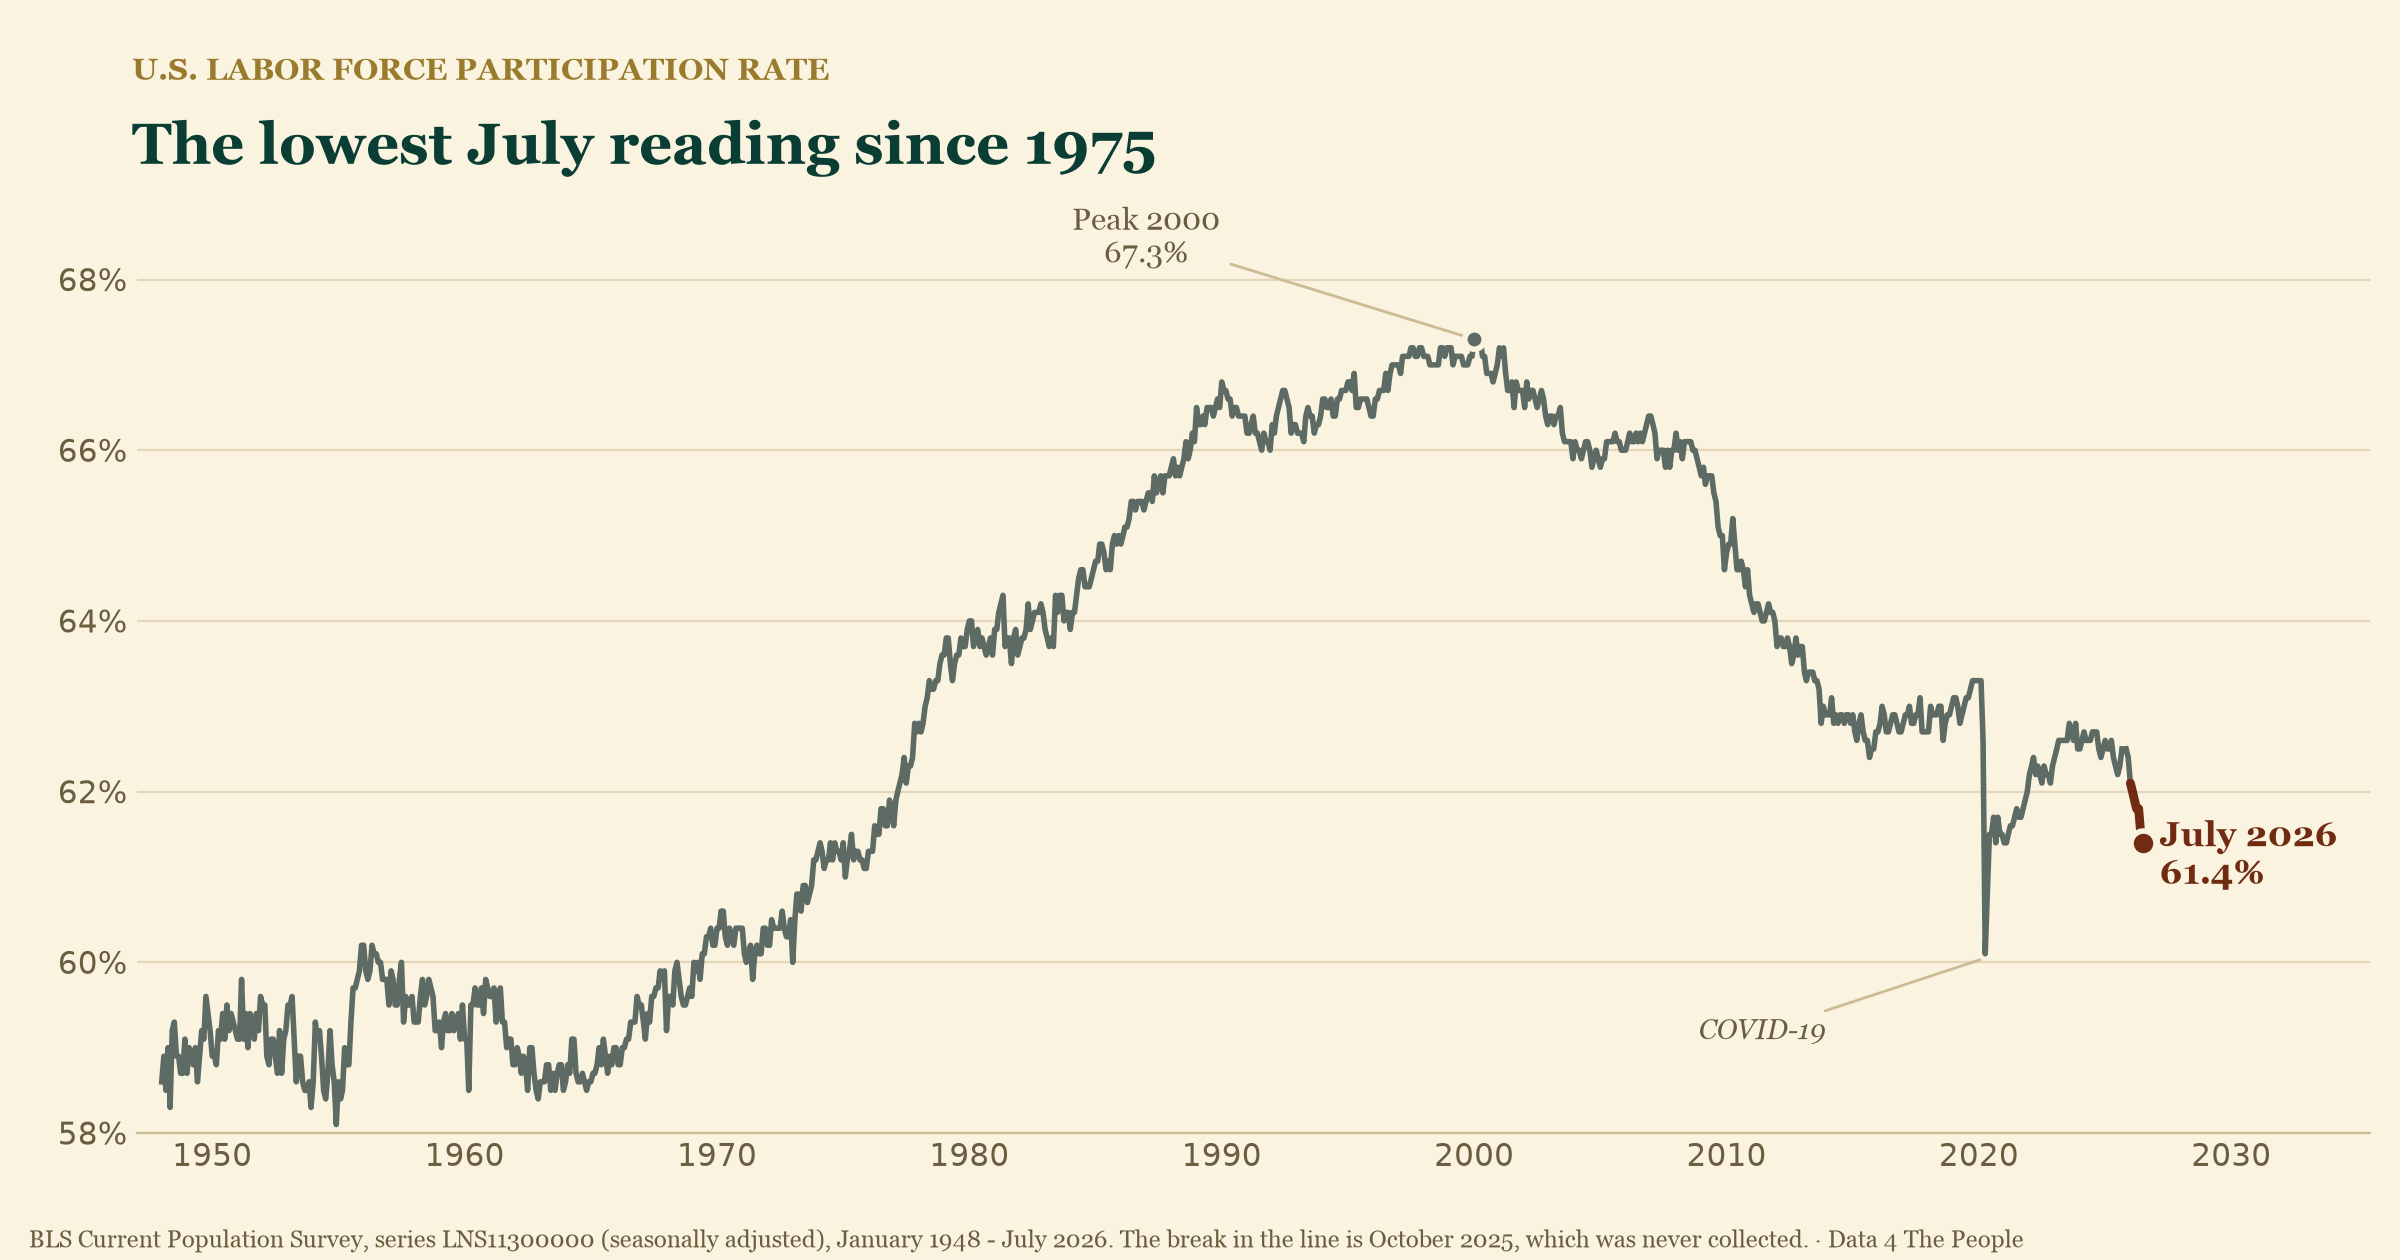
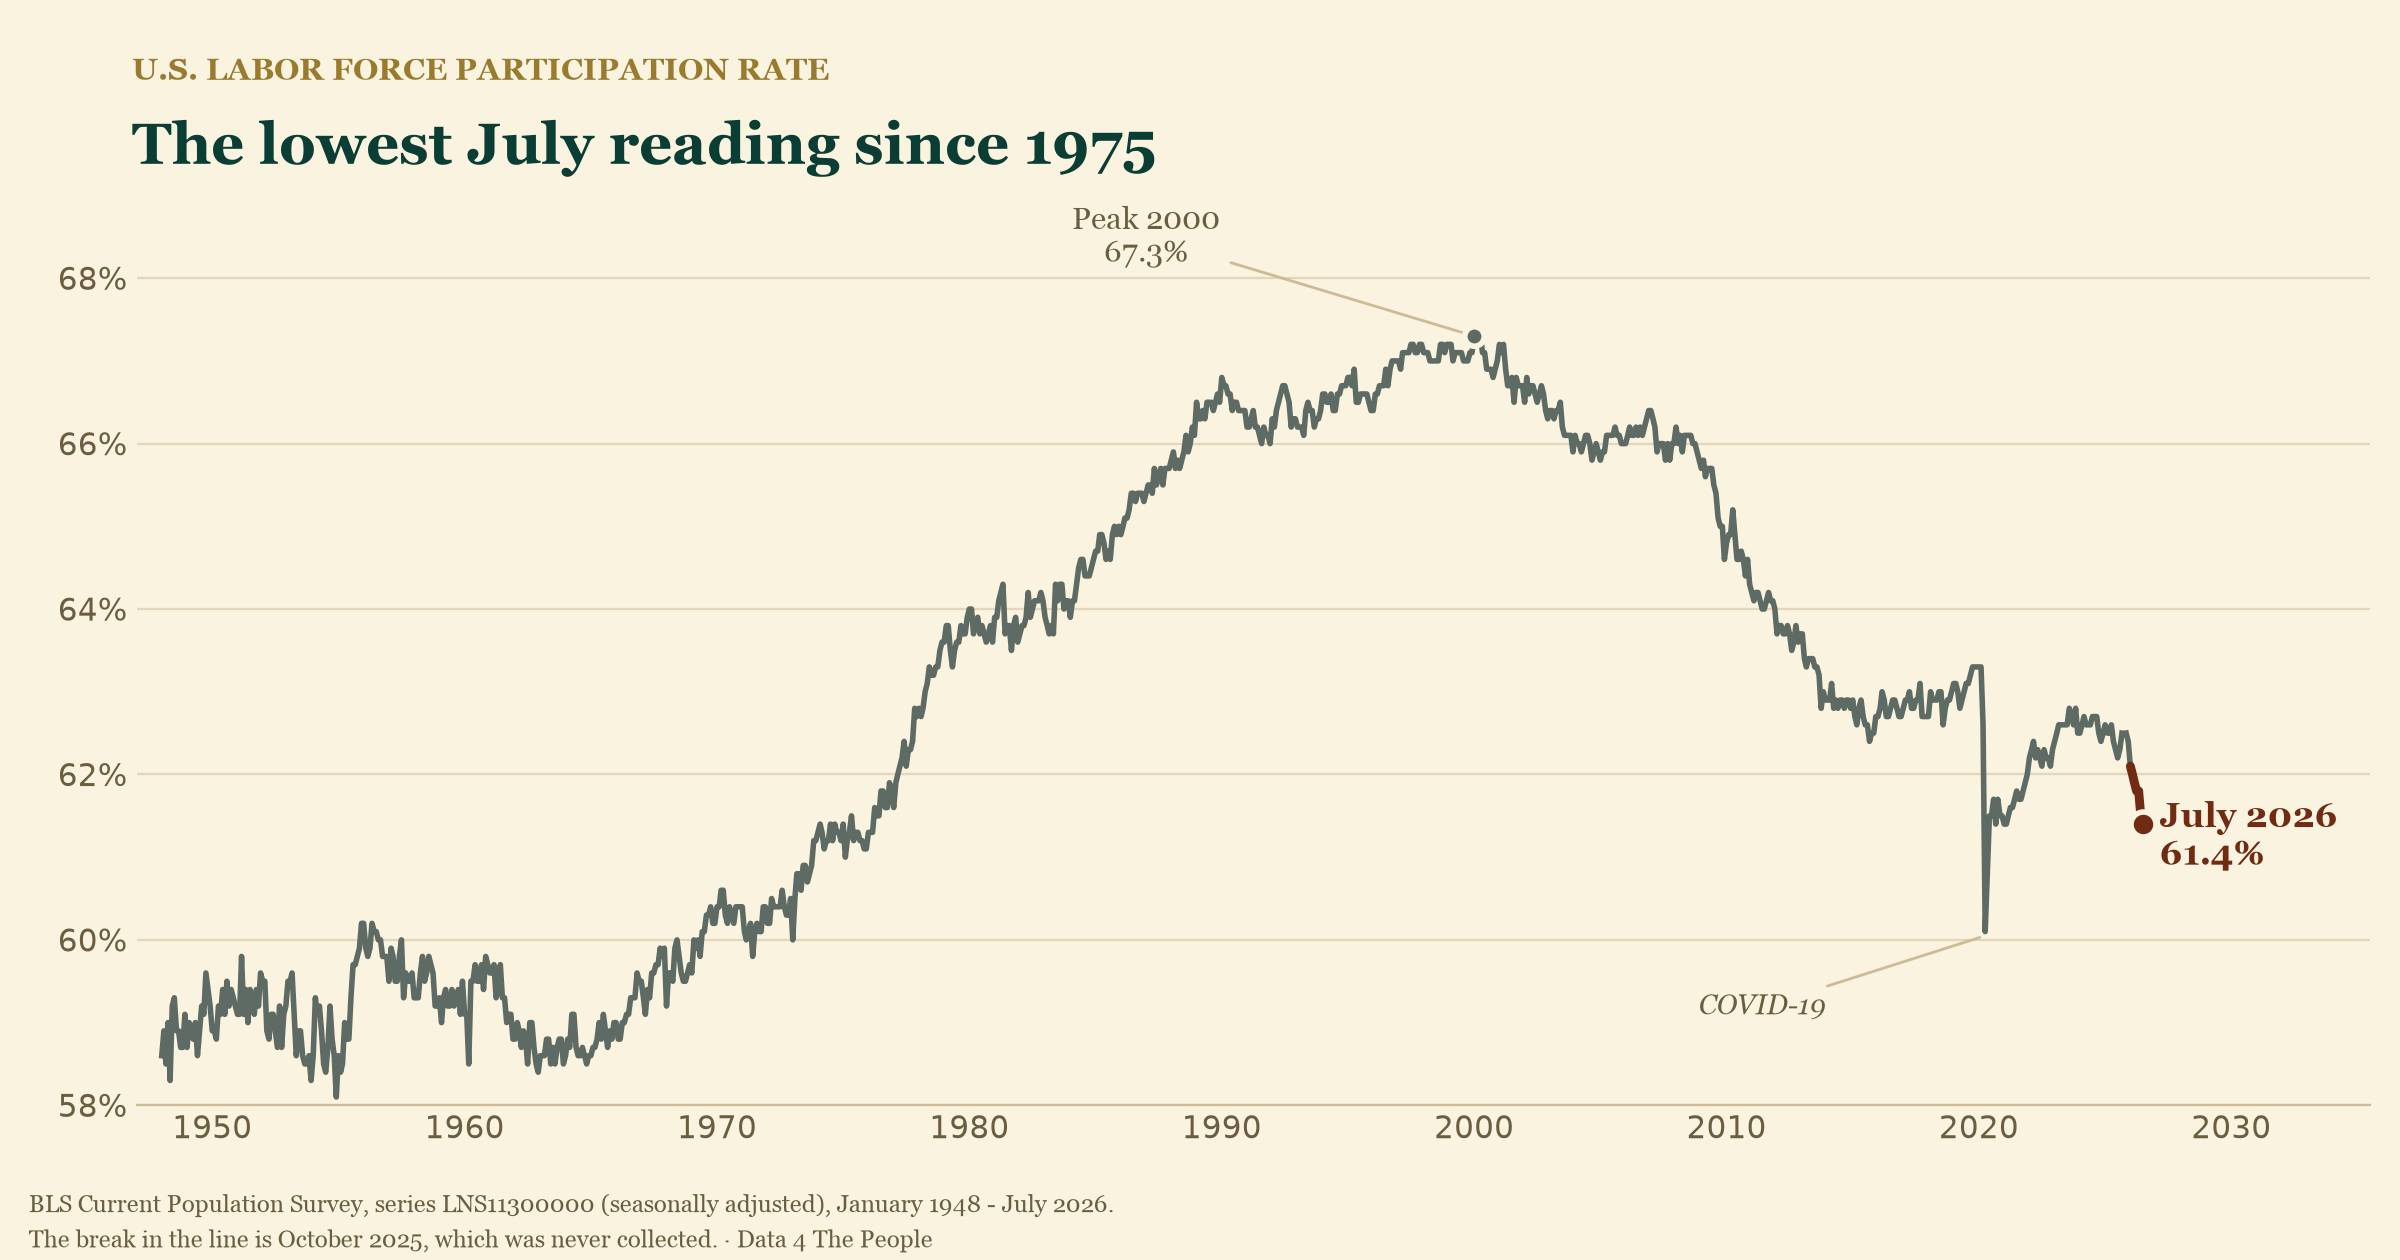
Match schema and hero to the Data 4 Thought house format
Rewrites the JSON-LD to the standard post format: Article rather than
NewsArticle, Person author, keywords as an array, articleSection, and citation
as CreativeWork entries pointing at the specific series and release rather than
a single Dataset. Key order follows the house template.

Adds a 1680x1080 hero matching the house dimensions and filename convention;
the 2400x1260 version is kept for in-post and other use. chart_hero and source
now take a type-scale factor, because matplotlib sizes fonts in absolute points
and the footnote that fits at 12in overflows the narrower canvas.

diff --git a/analysis/make_charts.py b/analysis/make_charts.py
@@ -59,12 +59,13 @@ def style(ax, title, subtitle, xlabel):
             fontsize=10.5, style="italic", family=SERIF, va="bottom")
 
 
-def source(fig, lines):
+def source(fig, lines, fs=1.0):
     """Footnote block. Takes a list of short lines -- a single long string
-    silently runs off the canvas rather than wrapping."""
+    silently runs off the canvas rather than wrapping. `fs` scales type for
+    narrower canvases, where a line that fits at 12in will overflow."""
     for i, line in enumerate(reversed(lines)):
-        fig.text(0.012, 0.010 + i * 0.028, line, color=MUTED,
-                 fontsize=8.5, family=SERIF)
+        fig.text(0.012, 0.010 + i * (0.028 / fs), line, color=MUTED,
+                 fontsize=8.5 * fs, family=SERIF)
 
 
 def series(sid):
@@ -150,12 +151,16 @@ def render_table(path, title, subtitle, colgroups, headers, rows, aligns,
 
 
 # --------------------------------------------------------------------------
-def chart_hero():
+def chart_hero(path=None, figsize=(12, 6.3), fs=1.0):
     """Hero: the whole 1948-2026 sweep of the headline participation rate.
 
     Reindexed to a complete monthly range so the uncollected Oct-2025 month
     becomes NaN and matplotlib breaks the line there instead of drawing a
     straight segment across a month that was never measured.
+
+    `fs` scales type so the same design holds at more than one canvas size --
+    matplotlib sizes fonts in absolute points, so a smaller figure with
+    unchanged sizes comes out looking crowded.
     """
     s = series(LFPR_16)
     full = pd.date_range(s.index.min(), s.index.max(), freq="MS")
@@ -166,7 +171,7 @@ def chart_hero():
     last_at = s.dropna().index[-1]; last = s.dropna().iloc[-1]
     jan26 = s[JAN]
 
-    fig, ax = plt.subplots(figsize=(12, 6.3))
+    fig, ax = plt.subplots(figsize=figsize)
     ax.set_facecolor(PARCH); fig.patch.set_facecolor(PARCH)
 
     ax.plot(s.index, s.values, color=BASE, lw=2.0, zorder=3)
@@ -181,12 +186,12 @@ def chart_hero():
 
     ax.annotate(f"Peak {peak_at.year}\n{peak:.1f}%",
                 xy=(peak_at, peak), xytext=(peak_at - pd.DateOffset(years=13), peak + 0.9),
-                fontsize=11, family=SERIF, color=MUTED, ha="center",
+                fontsize=11*fs, family=SERIF, color=MUTED, ha="center",
                 arrowprops=dict(arrowstyle="-", color=GRID, lw=1))
     # Label sits beside its own dot -- a long leader from the left would cross
     # the 2020 plunge and read as though it pointed there.
     ax.text(last_at + pd.DateOffset(months=8), last - 0.15,
-            f"July 2026\n{last:.1f}%", fontsize=12.5, family=SERIF,
+            f"July 2026\n{last:.1f}%", fontsize=12.5*fs, family=SERIF,
             color=HILITE, fontweight="bold", ha="left", va="center")
     # No January-2026 callout: any leader long enough to reach clear space
     # rakes across the 2010s and reads as pointing at the wrong thing. The
@@ -194,7 +199,7 @@ def chart_hero():
     # post. jan26 is kept for the stdout summary below.
     ax.annotate("COVID-19", xy=(pd.Timestamp(2020, 4, 1), 60.05),
                 xytext=(pd.Timestamp(2011, 6, 1), 59.1),
-                fontsize=10, family=SERIF, color=MUTED, style="italic",
+                fontsize=10*fs, family=SERIF, color=MUTED, style="italic",
                 ha="center",
                 arrowprops=dict(arrowstyle="-", color=GRID, lw=1))
 
@@ -205,21 +210,22 @@ def chart_hero():
     for sp in ("top", "right", "left"):
         ax.spines[sp].set_visible(False)
     ax.spines["bottom"].set_color(GRID)
-    ax.tick_params(colors=MUTED, labelsize=11, length=0)
+    ax.tick_params(colors=MUTED, labelsize=11*fs, length=0)
     ax.yaxis.grid(True, color=GRID, lw=0.8, alpha=0.5)
     ax.set_axisbelow(True)
 
     fig.text(0.055, 0.955, "U.S. LABOR FORCE PARTICIPATION RATE",
-             color="#9a7b2e", fontsize=11, family=SERIF, fontweight="bold",
+             color="#9a7b2e", fontsize=11*fs, family=SERIF, fontweight="bold",
              va="top")
     fig.text(0.055, 0.905, "The lowest July reading since 1975",
-             color="#0a3d33", fontsize=21, family=SERIF, fontweight="bold",
+             color="#0a3d33", fontsize=21*fs, family=SERIF, fontweight="bold",
              va="top")
     source(fig, ["BLS Current Population Survey, series LNS11300000 (seasonally "
-                 "adjusted), January 1948 - July 2026. The break in the line is "
-                 "October 2025, which was never collected. · Data 4 The People"])
-    fig.tight_layout(rect=(0.012, 0.045, 1, 0.86))
-    p = OUT / "hero_participation.png"
+                 "adjusted), January 1948 - July 2026.",
+                 "The break in the line is October 2025, which was never "
+                 "collected. · Data 4 The People"], fs=fs)
+    fig.tight_layout(rect=(0.012, 0.045 + (0.03 if fs < 1 else 0.022), 1, 0.86))
+    p = Path(path) if path else OUT / "hero_participation.png"
     fig.savefig(p, dpi=200, facecolor=PARCH)
     plt.close(fig)
     print(f"wrote {p}  (peak {peak:.1f} in {peak_at:%Y-%m}, "
@@ -405,5 +411,7 @@ def tables():
 
 if __name__ == "__main__":
     chart_hero()
+    chart_hero(OUT / "2026-08-07-the-line-the-bls-buried-hero-1680x1080.png",
+               figsize=(8.4, 5.4), fs=0.78)
     chart_ranking()
     tables()

diff --git a/analysis/METADATA.md b/analysis/METADATA.md
@@ -117,16 +117,18 @@ platforms may grab whichever image they find first.
 <meta property="og:type"        content="article">
 <meta property="og:title"       content="The Line the BLS Buried: Participation Hits a 1975 Low">
 <meta property="og:description" content="The BLS buried it six paragraphs in: participation has fallen 0.7 points since January — the steepest January-to-July drop in 79 years outside the pandemic.">
-<meta property="og:image"       content="REPLACE_ME_IMAGE_BASE/hero_participation.png">
+<meta property="og:image"       content="REPLACE_ME_PRISMIC_HERO_URL?auto=format,compress">
 <meta property="og:image:alt"   content="U.S. labor force participation rate, 1948 to July 2026, falling to 61.4% — the lowest July reading since 1975.">
-<meta property="og:url"         content="REPLACE_ME_ARTICLE_URL">
+<meta property="og:url"         content="https://www.data4thepeople.com/p/the-line-the-bls-buried">
 <meta property="og:site_name"   content="Data 4 The People">
-<meta property="article:published_time" content="2026-08-07">
+<meta property="article:published_time" content="2026-08-07T10:00:00-04:00">
+<meta property="article:section" content="Data 4 Thought">
+<meta property="article:author"  content="Eric Pachman">
 
 <meta name="twitter:card"        content="summary_large_image">
 <meta name="twitter:title"       content="The Line the BLS Buried: Participation Hits a 1975 Low">
 <meta name="twitter:description" content="Only one year since 1948 has been worse. We paid people to stay home that year.">
-<meta name="twitter:image"       content="REPLACE_ME_IMAGE_BASE/hero_participation.png">
+<meta name="twitter:image"       content="REPLACE_ME_PRISMIC_HERO_URL?auto=format,compress">
 
 <meta name="keywords" content="labor force participation rate, labor force participation, Bureau of Labor Statistics, BLS, Current Population Survey, CPS, prime-age workers, jobs report, labor market, workforce participation, population aging, shift-share analysis, economic data">
 ```
@@ -135,61 +137,82 @@ platforms may grab whichever image they find first.
 
 ## Schema (JSON-LD)
 
+Follows the standard Data 4 Thought post format.
+
+Fill in before publishing: the Prismic image URL (upload the hero first, then
+paste its delivery URL), and the `/p/` slug if it differs from the one below.
+
 ```html
 <script type="application/ld+json">
 {
   "@context": "https://schema.org",
-  "@type": "NewsArticle",
+  "@type": "Article",
   "headline": "The Line the BLS Buried: Participation Hits a 1975 Low",
-  "description": "The BLS buried it six paragraphs in: participation has fallen 0.7 points since January — the steepest January-to-July drop in 79 years outside the pandemic.",
-  "datePublished": "2026-08-07",
-  "dateModified": "2026-08-07",
-  "inLanguage": "en-US",
-  "isAccessibleForFree": true,
-  "mainEntityOfPage": { "@type": "WebPage", "@id": "REPLACE_ME_ARTICLE_URL" },
+  "description": "The BLS buried it six paragraphs in: participation has fallen 0.7 points since January — the steepest January-to-July drop in 79 years outside the pandemic. Aging explains only 6% of it.",
   "image": [
-    "REPLACE_ME_IMAGE_BASE/hero_participation.png",
-    "REPLACE_ME_IMAGE_BASE/chart_ranking.png",
-    "REPLACE_ME_IMAGE_BASE/table_decomposition.png"
+    "REPLACE_ME_PRISMIC_HERO_URL?auto=format,compress"
   ],
+  "datePublished": "2026-08-07T10:00:00-04:00",
+  "dateModified": "2026-08-07T10:00:00-04:00",
   "author": {
-    "@type": "Organization",
-    "name": "Data 4 The People",
-    "url": "REPLACE_ME_SITE_URL"
+    "@type": "Person",
+    "name": "Eric Pachman",
+    "url": "https://www.data4thepeople.com/authors/eric-pachman"
   },
   "publisher": {
     "@type": "Organization",
     "name": "Data 4 The People",
-    "url": "REPLACE_ME_SITE_URL"
+    "url": "https://data4thepeople.com"
   },
-  "keywords": "labor force participation rate, Current Population Survey, BLS, prime-age workers, labor market, jobs report, population aging",
-  "about": [
-    { "@type": "Thing", "name": "Labor force participation rate" },
-    { "@type": "Thing", "name": "United States labor market" }
+  "mainEntityOfPage": {
+    "@type": "WebPage",
+    "@id": "https://www.data4thepeople.com/p/the-line-the-bls-buried"
+  },
+  "keywords": [
+    "labor force participation rate",
+    "prime-age workers",
+    "Current Population Survey",
+    "labor market",
+    "jobs report"
   ],
-  "citation": {
-    "@type": "Dataset",
-    "name": "Current Population Survey (LN database)",
-    "creator": { "@type": "Organization", "name": "U.S. Bureau of Labor Statistics" },
-    "url": "https://www.bls.gov/cps/",
-    "license": "https://www.usa.gov/government-works"
-  },
-  "isBasedOn": "https://github.com/Data4ThePeople/CPS_monthly_explorer"
+  "articleSection": "Data 4 Thought",
+  "inLanguage": "en-US",
+  "citation": [
+    {
+      "@type": "CreativeWork",
+      "name": "Labor force participation rate, 16 years and over, seasonally adjusted, series LNS11300000",
+      "author": "U.S. Bureau of Labor Statistics",
+      "url": "https://data.bls.gov/timeseries/LNS11300000"
+    },
+    {
+      "@type": "CreativeWork",
+      "name": "The Employment Situation — July 2026",
+      "author": "U.S. Bureau of Labor Statistics",
+      "url": "https://www.bls.gov/news.release/empsit.nr0.htm"
+    },
+    {
+      "@type": "CreativeWork",
+      "name": "Current Population Survey, LN database",
+      "author": "U.S. Bureau of Labor Statistics",
+      "url": "https://www.bls.gov/cps/"
+    }
+  ]
 }
 </script>
 ```
 
-**Why these choices**
+**Notes**
 
-- `NewsArticle` rather than `Article` — timely reporting tied to a data release.
-- `citation` as a `Dataset` naming BLS as creator. For data journalism this is
-  the highest-value part: it makes provenance machine-readable and reinforces
-  the transparency the piece argues for.
-- `isBasedOn` pointing at the repo. Unusual for a news article, appropriate
-  here, because the reproducibility claim is a real differentiator.
-- `image` lists three, not five. The sources table is a reference exhibit, not a
-  share card — keeping it out stops a methodology table becoming a social
-  preview. Hero first; most consumers take the first entry.
+- `image` carries the hero only, matching the house format. Prismic's delivery
+  URL already ends in `?auto=format,compress` — keep that on.
+- Suggested hero filename, following the convention:
+  `2026-08-07-the-line-the-bls-buried-hero-1680x1080.png`
+- `datePublished` is set to 10:00 ET rather than the usual 06:00, since the BLS
+  release lands at 08:30 ET and a timestamp before it would be wrong. Adjust to
+  the actual publish time.
+- The three citations point at the exact series, the release being critiqued,
+  and the survey — the same granularity as citing CAINC4 and CUUR0000SA0 rather
+  than just "BEA" and "BLS".
 
 ---
 
